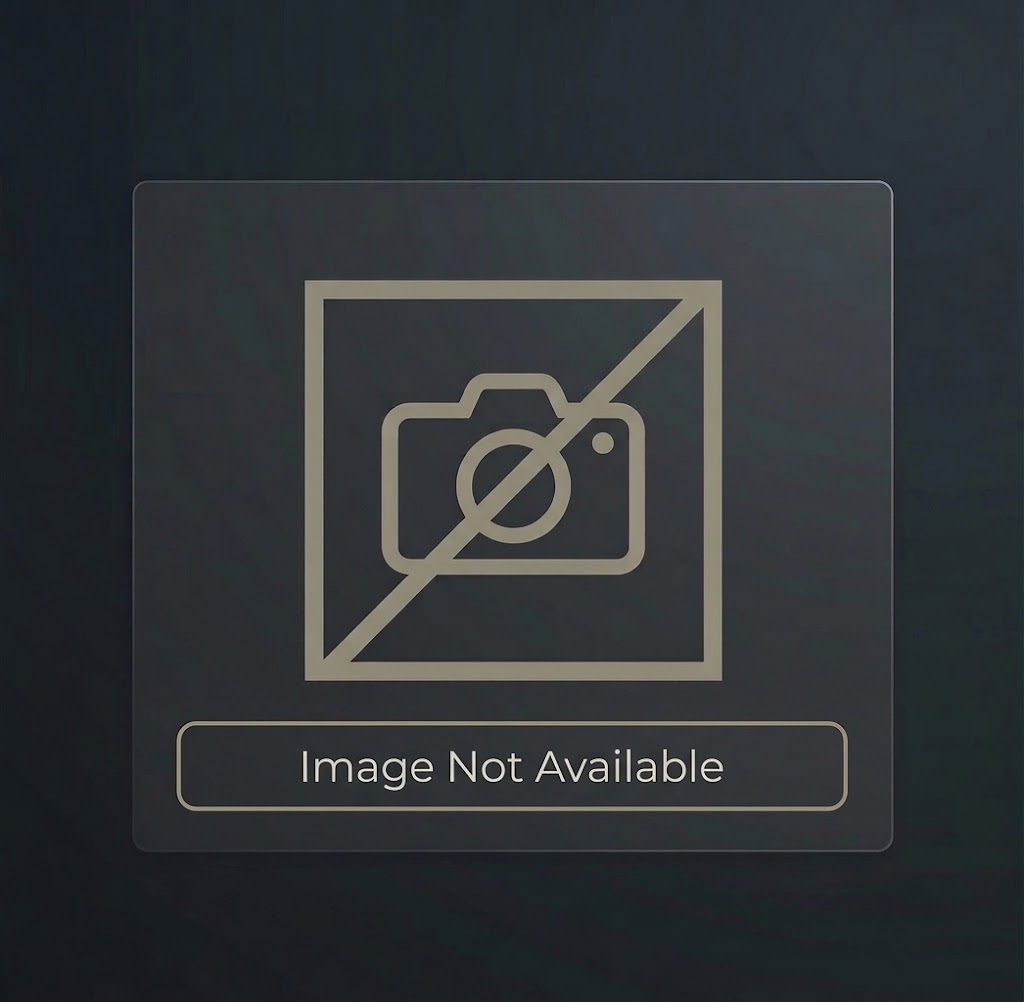
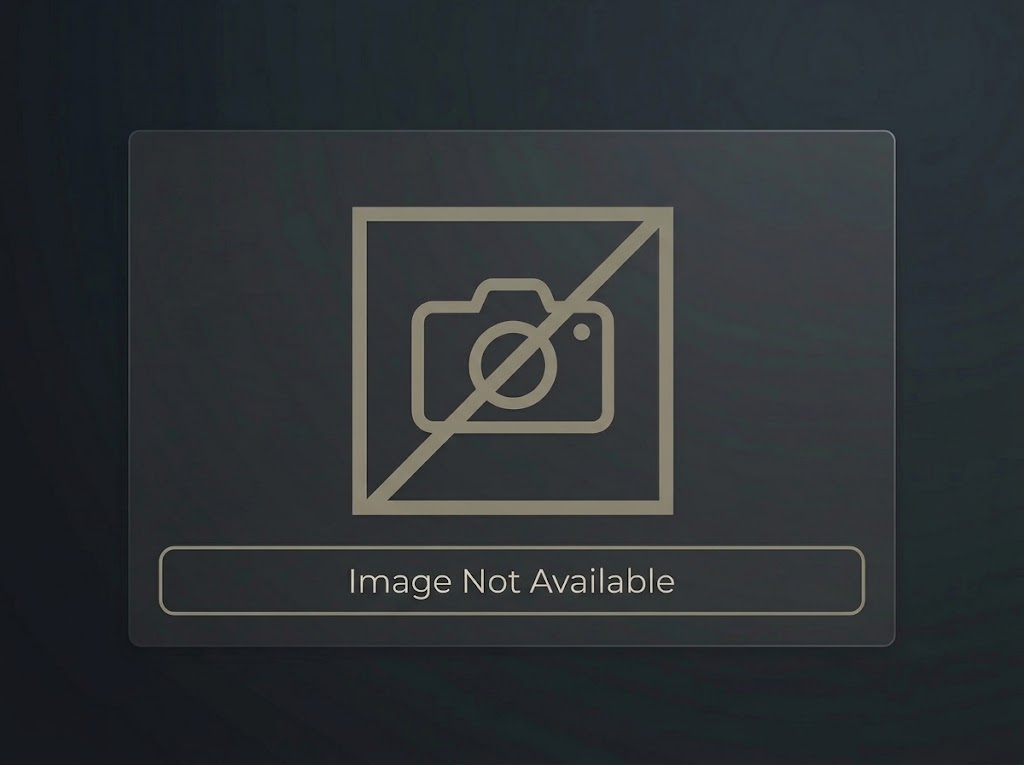
Added shop.tsx

diff --git a/src/pages/Shop.tsx b/src/pages/Shop.tsx
@@ -1,0 +1,23 @@
+import ProductCard from "../components/ProductCard";
+import { useProducts } from "../hooks/useProducts";
+
+export default function Shop() {
+    const { data: products, isLoading, error } = useProducts();
+
+    if (isLoading) return <p className="p-6">Laddar produkter...</p>;
+    if (error) return <p className="p-6">Något gick fel</p>;
+
+    return (
+        <div className="min-h-screen bg-[#FAF7F2] p-6">
+            <h1 className="text-3xl font-semibold text-[#3E3A36] mb-6">
+                Goldie Ranch
+            </h1>
+
+            <div className="grid grid-cols-1 sm:grid-cols-2 md:grid-cols-3 gap-6">
+                {products?.map((p) => (
+                    <ProductCard key={p.id} product={p} />
+                ))}
+            </div>
+        </div>
+    )
+}

diff --git a/src/components/ProductCard.tsx b/src/components/ProductCard.tsx
@@ -10,9 +10,9 @@ export default function ProductCard({ product }: Props) {
 
             <div className="h-52 w-full overflow-hidden bg-[#F3EFE7]">
                 <img
-                    src={product.image ?? "/public/images/ImageNotAvailable.jpg"}
+                    src={product.image ?? "/images/ImageNotAvailable.jpg"}
                     alt={product.name ? `${product.name} från Goldie Ranch` : "Produktbild"}
-                    className="w-full h-full object-cover" />
+                    className="w-full h-full object-cover object-[50%_30%]" />
             </div>
 
             <h3 className="text-lg font-semibold text-[#3E3A36]">

diff --git a/src/App.tsx b/src/App.tsx
@@ -1,7 +1,8 @@
+import Shop from "./pages/Shop";
 
 function App() {
   return (
-    <h1>Goldie Ranch</h1>
+    <Shop />
   )
 }
 
